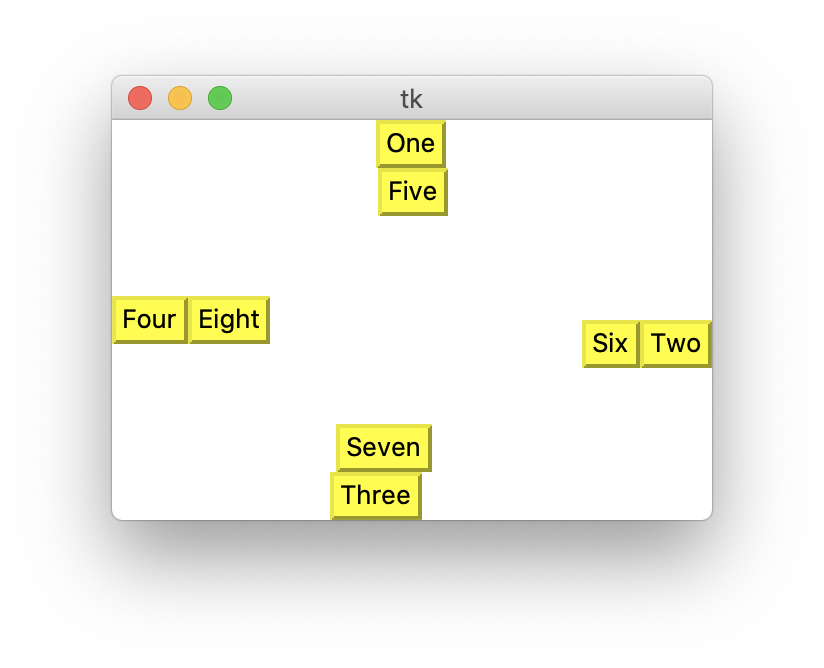
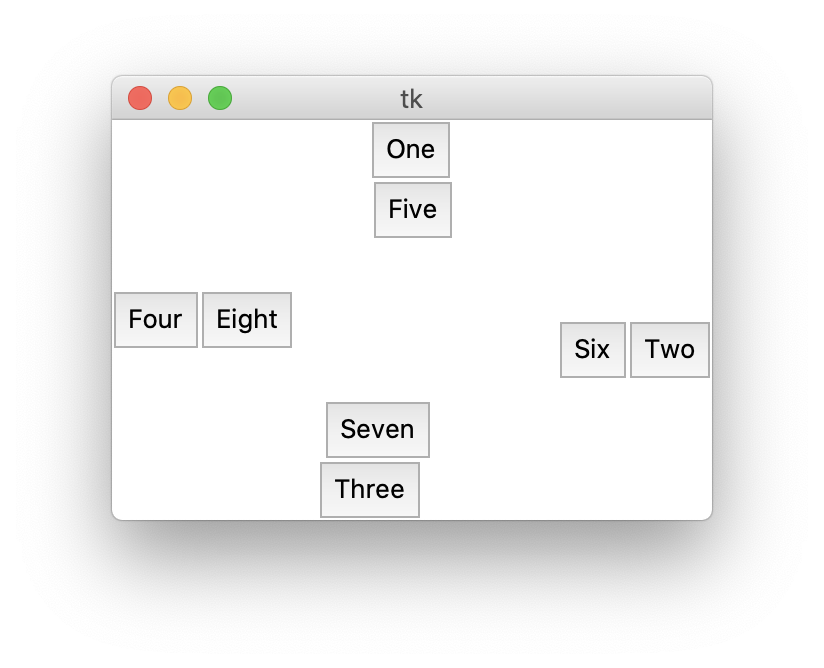
more tkinter

diff --git a/src/python/tkinter.md b/src/python/tkinter.md
@@ -93,22 +93,22 @@ and those that do not.
 
 ### Non-container Widgets
 
-| Name                                                                                        | Description                  | Nearest DOM/HTML Equivalent                  |
-| ------------------------------------------------------------------------------------------- | ---------------------------- | -------------------------------------------- |
-| {% aTargetBlank "https://www.tutorialspoint.com/python3/tk_button", "`Button`" %}           | button that can be pressed   | `<button>`                                   |
-| {% aTargetBlank "https://www.tutorialspoint.com/python3/tk_canvas", "`Canvas`" %}           | for drawing lines and shapes | `<canvas>` or `<svg>`                        |
-| {% aTargetBlank "https://www.tutorialspoint.com/python3/tk_checkbutton", "`Checkbutton`" %} | checkbox                     | `<input type="checkbox">`                    |
-| {% aTargetBlank "https://www.tutorialspoint.com/python3/tk_entry", "`Entry`" %}             | single-line text input       | `<input type="text">`                        |
-| {% aTargetBlank "https://www.tutorialspoint.com/python3/tk_label", "`Label`" %}             | label                        | `<label>`                                    |
-| {% aTargetBlank "https://www.tutorialspoint.com/python3/tk_listbox", "`Listbox`" %}         | drop-down selection          | `<select>` with `<option>` children          |
-| {% aTargetBlank "https://www.tutorialspoint.com/python3/tk_menu", "`Menu`" %}               | menu bar or menu             | none                                         |
-| {% aTargetBlank "https://www.tutorialspoint.com/python3/tk_menubutton", "`Menubutton`" %}   | menu item                    | none                                         |
-| {% aTargetBlank "https://www.tutorialspoint.com/python3/tk_radiobutton", "`Radiobutton`" %} | radio button                 | `<input type="radio">`                       |
-| {% aTargetBlank "https://www.tutorialspoint.com/python3/tk_scale", "`Scale`" %}             | slider                       | `<input type="range">`                       |
-| {% aTargetBlank "https://www.tutorialspoint.com/python3/tk_scrollbar", "`Scrollbar`" %}     | scrollbar                    | `<div>` with CSS `overflow` set to `scroll`  |
-| {% aTargetBlank "https://www.tutorialspoint.com/python3/tk_text", "`Text`" %}               | multi-line text input        | `<textarea>`                                 |
-| {% aTargetBlank "https://www.tutorialspoint.com/python3/tk_spinbox", "`Spinbox`" %}         | number input                 | `<input type="number">`                      |
-| {% aTargetBlank "https://www.tutorialspoint.com/python3/tk_messagebox", "`tkMessageBox`" %} | dialog box                   | `alert`, `confirm`, `prompt`, and `<dialog>` |
+| Name                                                                                        | Description                                                                                   | Nearest DOM/HTML Equivalent                            |
+| ------------------------------------------------------------------------------------------- | --------------------------------------------------------------------------------------------- | ------------------------------------------------------ |
+| {% aTargetBlank "https://www.tutorialspoint.com/python3/tk_button", "`Button`" %}           | button that can be pressed;<br>`command` option specifies function to call when clicked.      | `<button>`                                             |
+| {% aTargetBlank "https://www.tutorialspoint.com/python3/tk_canvas", "`Canvas`" %}           | for drawing lines and shapes                                                                  | `<canvas>` or `<svg>`                                  |
+| {% aTargetBlank "https://www.tutorialspoint.com/python3/tk_checkbutton", "`Checkbutton`" %} | checkbox                                                                                      | `<input type="checkbox">`                              |
+| {% aTargetBlank "https://www.tutorialspoint.com/python3/tk_entry", "`Entry`" %}             | single-line text input<br>`command` option specifies function to call when user changes value | `<input type="text">`                                  |
+| {% aTargetBlank "https://www.tutorialspoint.com/python3/tk_label", "`Label`" %}             | label                                                                                         | `<label>`                                              |
+| {% aTargetBlank "https://www.tutorialspoint.com/python3/tk_listbox", "`Listbox`" %}         | drop-down selection                                                                           | `<select>` with `<option>` children                    |
+| {% aTargetBlank "https://www.tutorialspoint.com/python3/tk_menu", "`Menu`" %}               | menu bar or menu                                                                              | none                                                   |
+| {% aTargetBlank "https://www.tutorialspoint.com/python3/tk_menubutton", "`Menubutton`" %}   | menu item                                                                                     | none                                                   |
+| {% aTargetBlank "https://www.tutorialspoint.com/python3/tk_radiobutton", "`Radiobutton`" %} | radio button                                                                                  | `<input type="radio">`<br>See example at link to left. |
+| {% aTargetBlank "https://www.tutorialspoint.com/python3/tk_scale", "`Scale`" %}             | slider                                                                                        | `<input type="range">`                                 |
+| {% aTargetBlank "https://www.tutorialspoint.com/python3/tk_scrollbar", "`Scrollbar`" %}     | scrollbar                                                                                     | `<div>` with CSS `overflow` set to `scroll`            |
+| {% aTargetBlank "https://www.tutorialspoint.com/python3/tk_text", "`Text`" %}               | multi-line text input                                                                         | `<textarea>`                                           |
+| {% aTargetBlank "https://www.tutorialspoint.com/python3/tk_spinbox", "`Spinbox`" %}         | number input                                                                                  | `<input type="number">`                                |
+| {% aTargetBlank "https://www.tutorialspoint.com/python3/tk_messagebox", "`tkMessageBox`" %} | dialog box                                                                                    | `alert`, `confirm`, `prompt`, and `<dialog>`           |
 
 ## Layout Methods
 
@@ -143,21 +143,24 @@ from tkinter import *
 root = Tk()
 root.geometry('300x200')
 
-bg = 'yellow'
-relief = RAISED
+def add_button(text, side):
+    btn = Button(root, padx=5, pady=5, text=text)
+    btn.pack(side=side)
 
-Label(text='One', bg=bg, relief=RAISED).pack(side=TOP)
-Label(text='Two', bg=bg, relief=RAISED).pack(side=RIGHT)
-Label(text='Three', bg=bg, relief=RAISED).pack(side=BOTTOM)
-Label(text='Four', bg=bg, relief=RAISED).pack(side=LEFT)
+add_button('One', TOP)
+add_button('Two', RIGHT)
+add_button('Three', BOTTOM)
+add_button('Four', LEFT)
 
-Label(text='Five', bg=bg, relief=RAISED).pack(side=TOP)
-Label(text='Six', bg=bg, relief=RAISED).pack(side=RIGHT)
-Label(text='Seven', bg=bg, relief=RAISED).pack(side=BOTTOM)
-Label(text='Eight', bg=bg, relief=RAISED).pack(side=LEFT)
+add_button('Five', TOP)
+add_button('Six', RIGHT)
+add_button('Seven', BOTTOM)
+add_button('Eight', LEFT)
 
 root.mainloop()
 ```
+
+TODO: Why is centering off here?
 
 ![pack example](/blog/assets/tkinter-pack.png)
 
